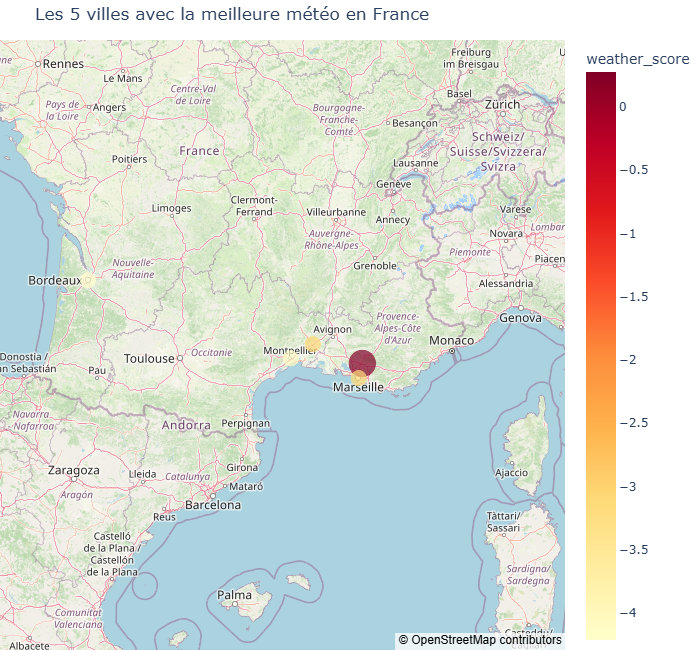
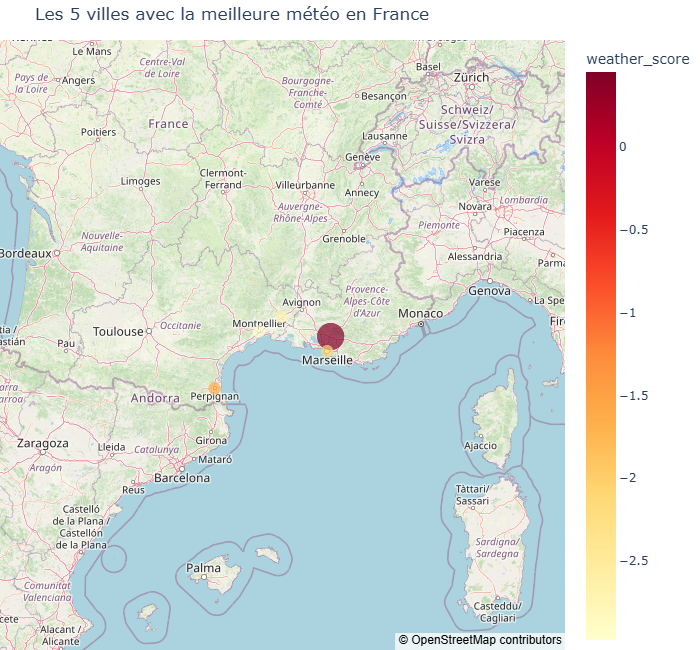
ajout de la api_key

diff --git a/solution/projet.py b/solution/projet.py
@@ -5,7 +5,7 @@ import pandas as pd
 import plotly.express as px
 from scrapy import Selector
 from urllib.parse import quote, urlencode
-from solution.config import API_KEY   
+from config import API_KEY   
 
 CITIES = [
     "Paris","Marseille","Lyon","Toulouse","Nice","Nantes","Strasbourg","Montpellier","Bordeaux","Lille",
@@ -106,7 +106,7 @@ print(top5[["city", "weather_score"]])
 # ---------------------- CARTE METEO ----------------------
 top5["size"] = top5["weather_score"].apply(lambda x: max(x, 0.1))
 
-fig_weather = px.scatter_mapbox(
+fig_weather = px.scatter_map(
     top5,
     lat="lat", lon="lon",
     color="weather_score",

diff --git a/solution/config.py b/solution/config.py
@@ -1,0 +1,1 @@
+API_KEY = "7878e228dae5763288e3adca0cbb1f57"
